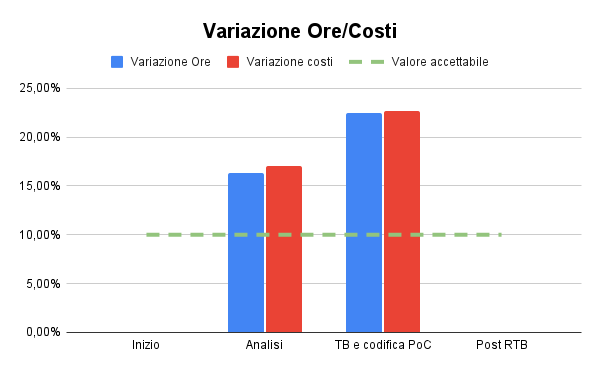
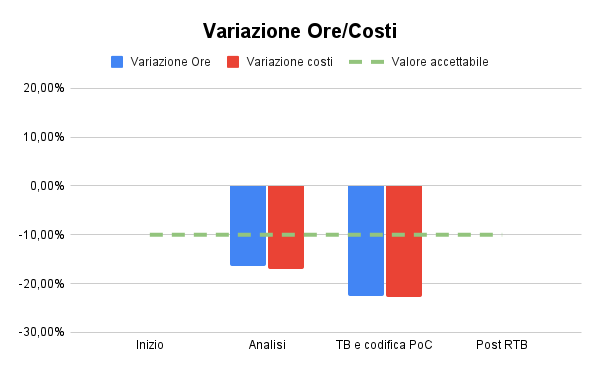
Fix Formula SV e BV + aggiornato grafico MPC1-2

diff --git a/documenti/Piano-di-qualifica/sezioni/qualità_processo.tex b/documenti/Piano-di-qualifica/sezioni/qualità_processo.tex
@@ -73,12 +73,12 @@ Riferimenti tecnici:
         \centering \textbf{Schedule Variance \\ (SV)} 
         & \centering \textbf{MPC1} 
         & \multicolumn{1}{>{\centering\arraybackslash}m{0.20\linewidth}}{$= 0\% $}
-        & \multicolumn{1}{>{\centering\arraybackslash}m{0.20\linewidth}}{$\leq 10\% $}\\
+        & \multicolumn{1}{>{\centering\arraybackslash}m{0.20\linewidth}}{$\geq -10\% $}\\
     \rowcolor[RGB]{233, 245, 206}
         \centering \textbf{Budget Variance \\ (BV)} 
         & \centering \textbf{MPC2} 
         & \multicolumn{1}{>{\centering\arraybackslash}m{0.20\linewidth}}{$= 0\% $}
-        & \multicolumn{1}{>{\centering\arraybackslash}m{0.20\linewidth}}{$\leq 10\% $}\\
+        & \multicolumn{1}{>{\centering\arraybackslash}m{0.20\linewidth}}{$\geq -10\% $}\\
     \rowcolor[RGB]{216, 235, 171}
         \centering \textbf{Estimated at Completion \\ (EAC)} 
         & \centering \textbf{MPC3} 

diff --git a/documenti/Piano-di-qualifica/sezioni/registro_modifiche.tex b/documenti/Piano-di-qualifica/sezioni/registro_modifiche.tex
@@ -15,5 +15,9 @@
 	0.2.0 & 22/01/2022 & Beni Valentina& / &/& Stesura Qualità di Processo\\
 	\rowcolor[RGB]{233, 245, 206}
 	0.3.0 & 24/01/2022 & Beni Valentina& / &/& Stesura Qualità di Prodotto\\
+	\rowcolor[RGB]{216, 235, 171}
+	0.4.0 & 29/01/2022 & Bustaffa Marco& / &/& Stesura Test\\
+	\rowcolor[RGB]{233, 245, 206}
+	0.5.0 & 03/02/2022 & Bustaffa Marco& / &/& Stesura Resoconto Test\\
 \end{tabular}
 }
